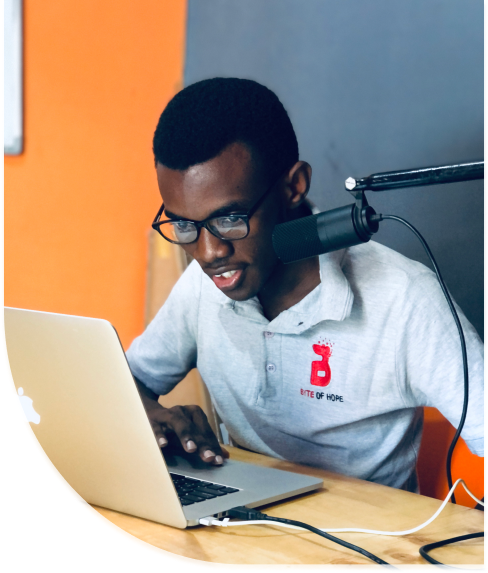
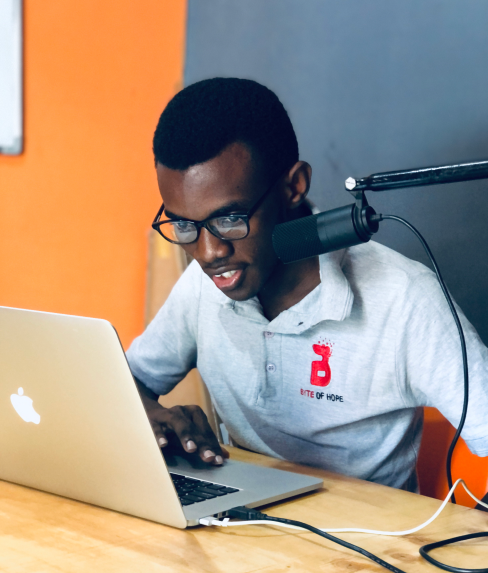
first changes

Changed region(s): [[0.0, 0.0, 1.0, 1.0]]

diff --git a/Portfolio_page/style.css b/Portfolio_page/style.css
@@ -46,6 +46,28 @@ li a {
 .user_image {
     max-width: 500px;
     height: auto;
+    border: 5px solid #000;
+    border-radius: 0 0 0 270px;
+    position: relative;
+}
+
+.user_image img {
+    width: 100%;
+    height: 100%;
+    z-index: 2;
+    position: relative;
+    border-radius: 0 0 0 270px;
+}
+
+.user_image .cover {
+    position: absolute;
+    width: 100%;
+    height: calc(100% - 30px);
+    background: #000;
+    top: -15px;
+    left: 15px;
+    border-radius: inherit;
+    z-index: 1;
 }
 
 main {

diff --git a/Portfolio_page/index.html b/Portfolio_page/index.html
@@ -46,7 +46,8 @@
                 </div>
             </section>
             <section class="user_image">
-                <img src="./img/Photo.png" alt="User">
+                <img src="./img/Photo.png" alt="user">
+                <div class="cover"></div>
             </section>
         </main>
     </div> 
